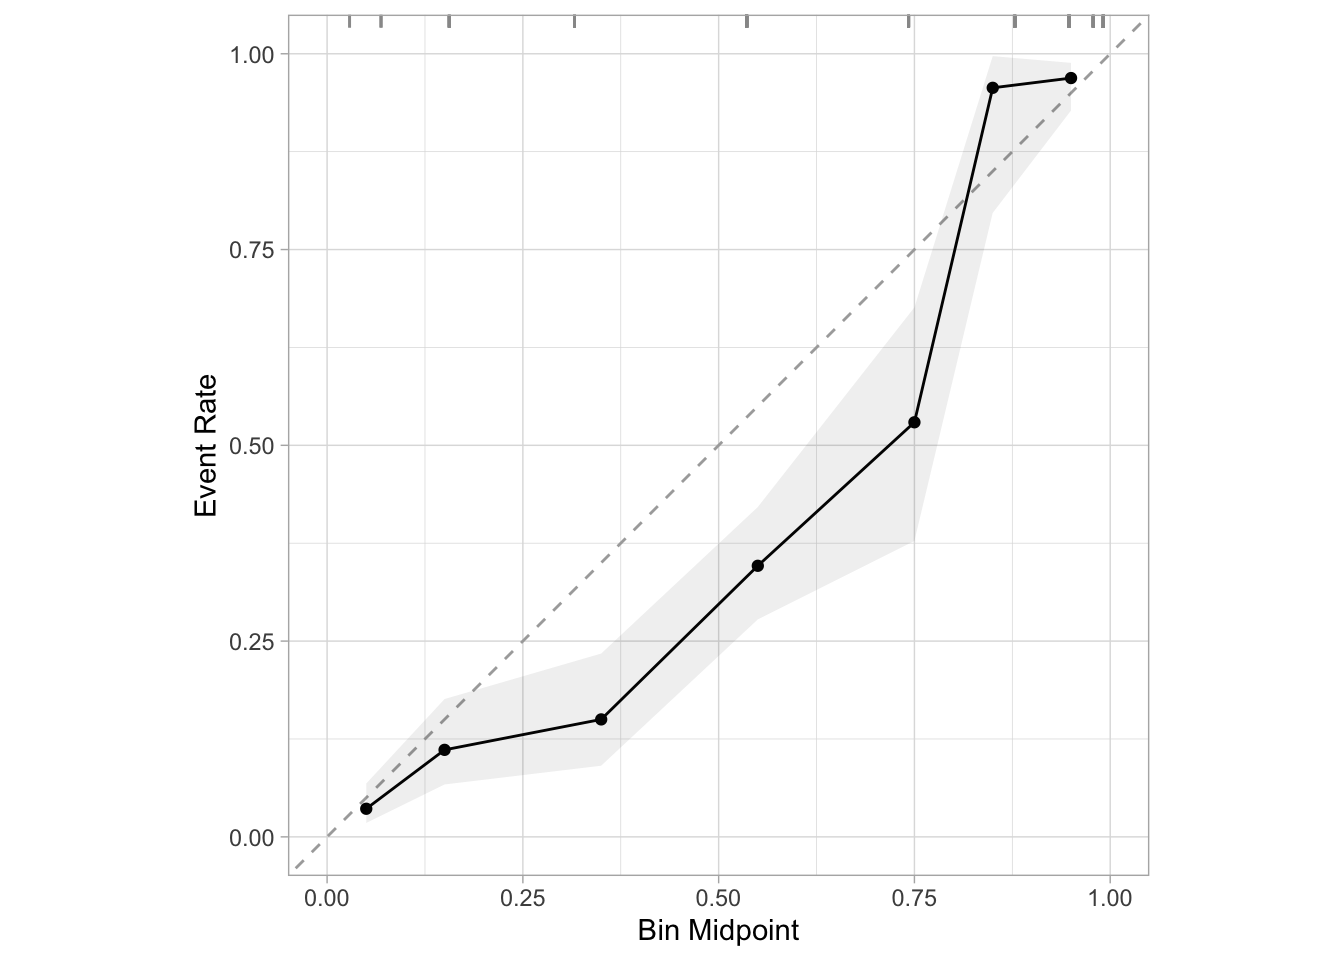
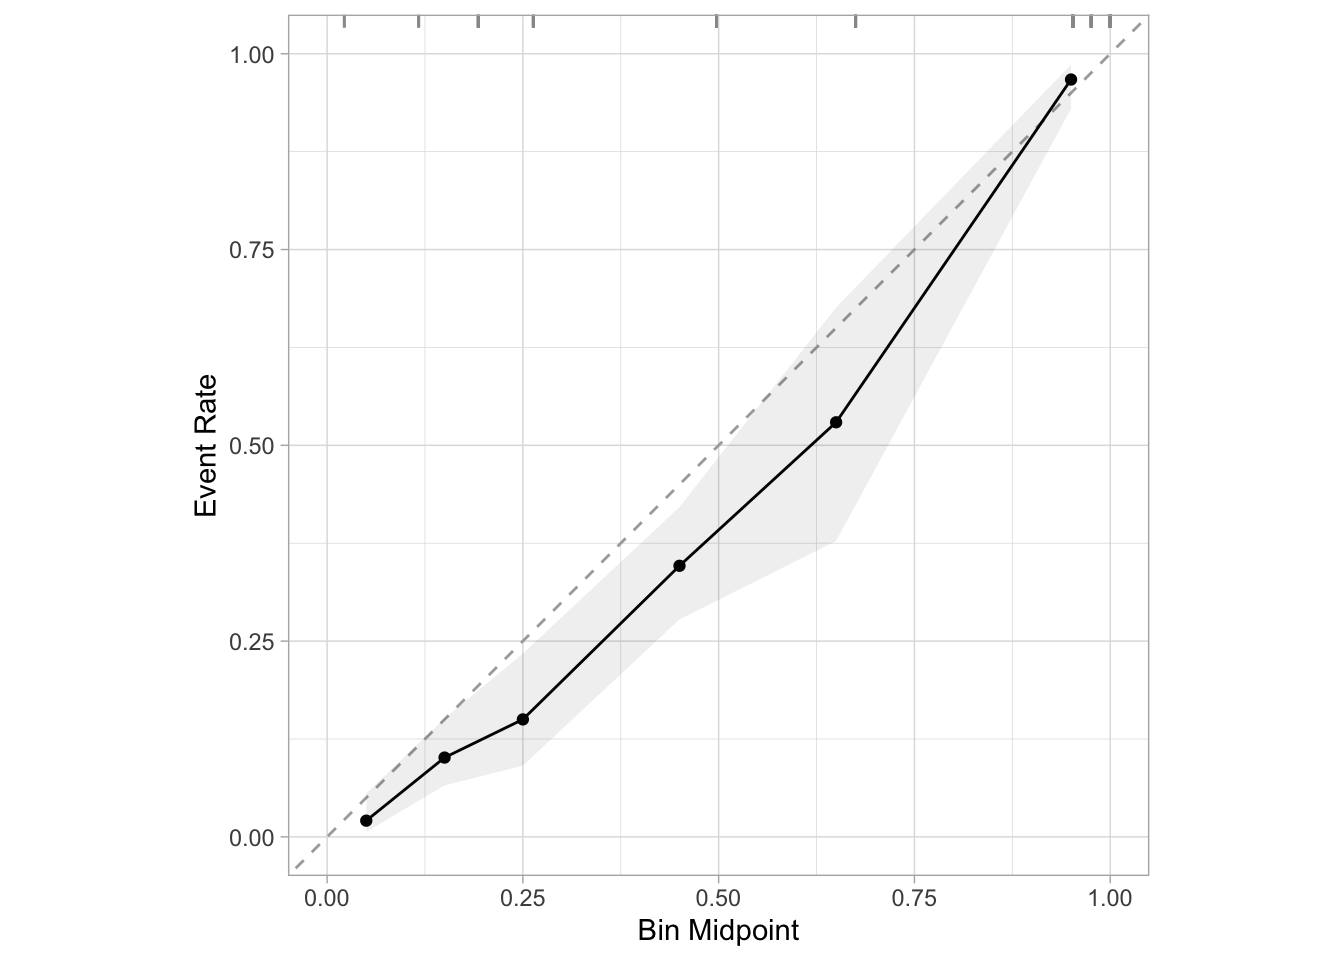
fixing a bug in class imbalance post

diff --git a/docs/posts/2023-03-25-balancing-classes/balancing-classes.html b/docs/posts/2023-03-25-balancing-classes/balancing-classes.html
@@ -596,7 +596,7 @@ cookieconsent.run({
 <h2 class="anchored" data-anchor-id="a-random-forest">A Random Forest</h2>
 <p>“But no!” you might be thinking. “You need to use a more complicated model like a random forest, because logistic regression won’t pick up on complexities in your data well enough to be well-calibrated.”</p>
 <p>Great! Let’s try a random forest:</p>
-<div class="cell" data-hash="balancing-classes_cache/html/unnamed-chunk-11_c68820cff38a66615728555770703763">
+<div class="cell" data-hash="balancing-classes_cache/html/unnamed-chunk-11_1a783e29f38834cc1c230212e4000d0a">
 <div class="sourceCode cell-code" id="cb10"><pre class="sourceCode r code-with-copy"><code class="sourceCode r"><span id="cb10-1"><a href="#cb10-1" aria-hidden="true" tabindex="-1"></a>rf <span class="ot">&lt;-</span> <span class="fu">fit_model</span>(smote, <span class="fu">rand_forest</span>())</span>
 <span id="cb10-2"><a href="#cb10-2" aria-hidden="true" tabindex="-1"></a></span>
 <span id="cb10-3"><a href="#cb10-3" aria-hidden="true" tabindex="-1"></a>preds<span class="sc">$</span>rf_preds <span class="ot">&lt;-</span> <span class="fu">predict_prob</span>(</span>
@@ -604,12 +604,12 @@ cookieconsent.run({
 <span id="cb10-5"><a href="#cb10-5" aria-hidden="true" tabindex="-1"></a>  data</span>
 <span id="cb10-6"><a href="#cb10-6" aria-hidden="true" tabindex="-1"></a>)</span>
 <span id="cb10-7"><a href="#cb10-7" aria-hidden="true" tabindex="-1"></a></span>
-<span id="cb10-8"><a href="#cb10-8" aria-hidden="true" tabindex="-1"></a><span class="fu">cal_plot_breaks</span>(preds, <span class="at">truth =</span> truth_int, <span class="at">estimate =</span> smote_preds)</span></code><button title="Copy to Clipboard" class="code-copy-button"><i class="bi"></i></button></pre></div>
+<span id="cb10-8"><a href="#cb10-8" aria-hidden="true" tabindex="-1"></a><span class="fu">cal_plot_breaks</span>(preds, <span class="at">truth =</span> truth_int, <span class="at">estimate =</span> rf_preds)</span></code><button title="Copy to Clipboard" class="code-copy-button"><i class="bi"></i></button></pre></div>
 <div class="cell-output-display">
 <p><img src="balancing-classes_files/figure-html/unnamed-chunk-11-1.png" class="img-fluid" width="672"></p>
 </div>
 </div>
-<p>Same issue again, and the same logic holds. In fact, it’s even more straightforward with tree-based models. In a decision tree, you would determine a predicted probability by seeing what proportion of the labels in the leaf node that you end up in based on the features belong to the positive class. But then there’s the same logic as before: We’ve just artifically increased the number of instances of the positive class dramatically, so of course the proportion of labels belonging to the positive class in our leaf nodes will increase.</p>
+<p>Same issue again, albeit not quite as severe. And the same logic holds. In fact, it’s even more straightforward with tree-based models. In a decision tree, you would determine a predicted probability by seeing what proportion of the labels in the leaf node that you end up in based on the features belong to the positive class. But then there’s the same logic as before: We’ve just artifically increased the number of instances of the positive class dramatically, so of course the proportion of labels belonging to the positive class in our leaf nodes will increase.</p>
 </section>
 <section id="coefficients" class="level2">
 <h2 class="anchored" data-anchor-id="coefficients">Coefficients</h2>

diff --git a/docs/posts.html b/docs/posts.html
@@ -239,7 +239,7 @@ cookieconsent.run({
     </div>
 </div>
 <div class="list quarto-listing-default">
-<div class="quarto-post image-right" data-index="0" data-categories="R,data science" data-listing-date-sort="1680321600000" data-listing-file-modified-sort="1680363907040" data-listing-reading-time-sort="9.045">
+<div class="quarto-post image-right" data-index="0" data-categories="R,data science" data-listing-date-sort="1680321600000" data-listing-file-modified-sort="1680390473678" data-listing-reading-time-sort="9.07">
 <div class="body">
 <a href="./posts/2023-03-25-balancing-classes/balancing-classes.html">
 <h3 class="no-anchor listing-title">
